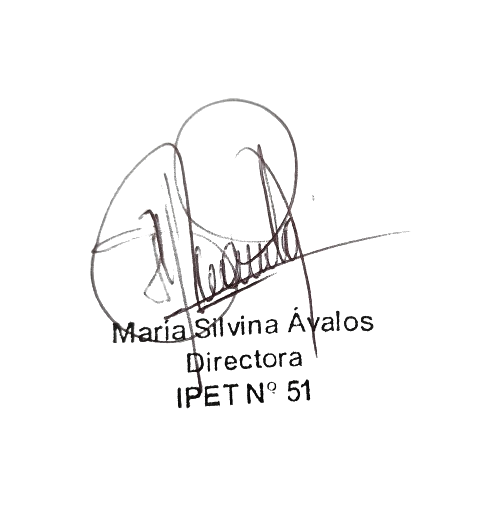
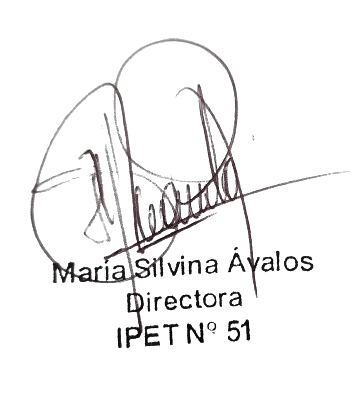
GSF : Mejora en el componente de generacion de pdf

diff --git a/src/components/intranet/hojaderuta/TemplateHdr.vue b/src/components/intranet/hojaderuta/TemplateHdr.vue
@@ -1,7 +1,13 @@
 <template>
-    <div ref="printSection">
-        <link href="https://cdn.jsdelivr.net/npm/bootstrap@5.0.2/dist/css/bootstrap.min.css" rel="stylesheet" integrity="sha384-EVSTQN3/azprG1Anm3QDgpJLIm9Nao0Yz1ztcQTwFspd3yD65VohhpuuCOmLASjC" crossorigin="anonymous">
-        <div class="container">
+    <link href="https://cdn.jsdelivr.net/npm/bootstrap@5.0.2/dist/css/bootstrap.min.css" rel="stylesheet" integrity="sha384-EVSTQN3/azprG1Anm3QDgpJLIm9Nao0Yz1ztcQTwFspd3yD65VohhpuuCOmLASjC" crossorigin="anonymous">
+    
+    <div ref="pdfContent">
+        <div class="container pdng-20">
+        <div class="row">
+            <div class="col-md-12 text-center">
+                <h3><strong>Hoja de Ruta</strong></h3>
+            </div>
+        </div>
         <div class="row border1">
 
             <header class="header  text-center">
@@ -39,7 +45,7 @@
 
         <br>
         <br>
-        <table class="table table-bordered border1">
+        <table class="table table-bordered">
             <thead>
                 <th scope="col" class="text-center">V°B° Cooperadora</th>
                 <th scope="col" class="text-center">V°B° Taller-Laboratorio</th>
@@ -121,6 +127,9 @@
 
 <script>
 
+    import html2canvas from 'html2canvas'
+    import jsPDF from 'jspdf'
+
     const titleHeaders = [
         {id:1,tag:"Estudiante"},
         {id:2,tag:"Curso-Comision"},
@@ -149,7 +158,7 @@
                 DIA:'',
                 MES:'',
                 ANIO:'',
-                COND:'Regular',
+                COND:'Regular'
         }),
         created(){
             this.fecha = new Date();
@@ -157,6 +166,30 @@
             this.MES = meses[this.fecha.getMonth()];
             this.ANIO = this.fecha.getFullYear();
         },
+        methods:{
+            async generarPDF(){
+                const element = this.$refs.pdfContent
+
+                const canvas = await html2canvas(element)
+                const imgData = canvas.toDataURL('image/png')
+
+                const pdf = new jsPDF('l', 'mm', 'a4')
+                const pdfWidth = pdf.internal.pageSize.getWidth()
+                const pdfHeight = pdf.internal.pageSize.getHeight()
+
+                const imgProps = pdf.getImageProperties(imgData)
+                const imgWidth = pdfWidth * 0.9 // 90% del ancho A4
+                const imgHeight = (imgProps.height * imgWidth) / imgProps.width
+
+                // Centramos la imagen
+                const x = (pdfWidth - imgWidth) / 2
+                const y = (pdfHeight - imgHeight) / 2
+
+                pdf.addImage(imgData, 'PNG', x, y, imgWidth, imgHeight)
+                const sNombreTemplate =  'HojaDeRuto.pdf' ; // 'HDR-'+ alumno.apellido + '_' + alumno.nombre + '.pdf';
+                pdf.save(sNombreTemplate)
+            }
+        }
         
     }
 </script>
@@ -205,6 +238,9 @@
         
         .pie-firma{
             padding-top: 0px;
+        }
+        .pdng-20{
+            padding-top: 140px;
         }
 
 </style>

diff --git a/src/components/intranet/hojaderuta/HojaDeRuta.vue b/src/components/intranet/hojaderuta/HojaDeRuta.vue
@@ -203,13 +203,13 @@
                                 </v-card>
                             </v-dialog>
 
-                            <v-dialog v-model="dialogHdr" max-width="1900px">
+                            <v-dialog v-model="dialogHdr" max-width="1280px">
                                 <v-card>
                                     <v-card-title class="text-h5 text-center">
-                                        Hoja de Ruta
+                                        
                                     </v-card-title>
                                     <v-card-text>
-                                        <TemplateHdr ref="cardRef" :matricula="matriculaEdited" :ciclo="ciclo"></TemplateHdr>
+                                        <TemplateHdr ref="pdfComp" :matricula="matriculaEdited" :ciclo="ciclo"></TemplateHdr>
                                     </v-card-text>
                                     <v-card-actions>
                                         <v-spacer></v-spacer>
@@ -575,19 +575,7 @@
             this.dialogHdr = false;
         },
         printHdr() {
-            const content = this.$refs.cardRef.$el.innerHTML
-            const printWindow = window.open('', '', 'width=1900,height=960')
-            printWindow.document.write(`
-                <html>
-                <head>
-                    <title>Impresión</title>
-                </head>
-                <body onload="window.print(); window.close();">
-                    ${content}
-                </body>
-                </html>
-            `)
-            printWindow.document.close()
+            this.$refs.pdfComp.generarPDF()
         },
     
         async cargarDocumento() {

diff --git a/src/components/intranet/hojaderuta/SelloIpet.vue b/src/components/intranet/hojaderuta/SelloIpet.vue
@@ -13,7 +13,7 @@
         max-width: 100px;
         max-height: 150px;
         width:100px;
-        height:150px;
+        height:120px;
     }
 
     .image-container {
